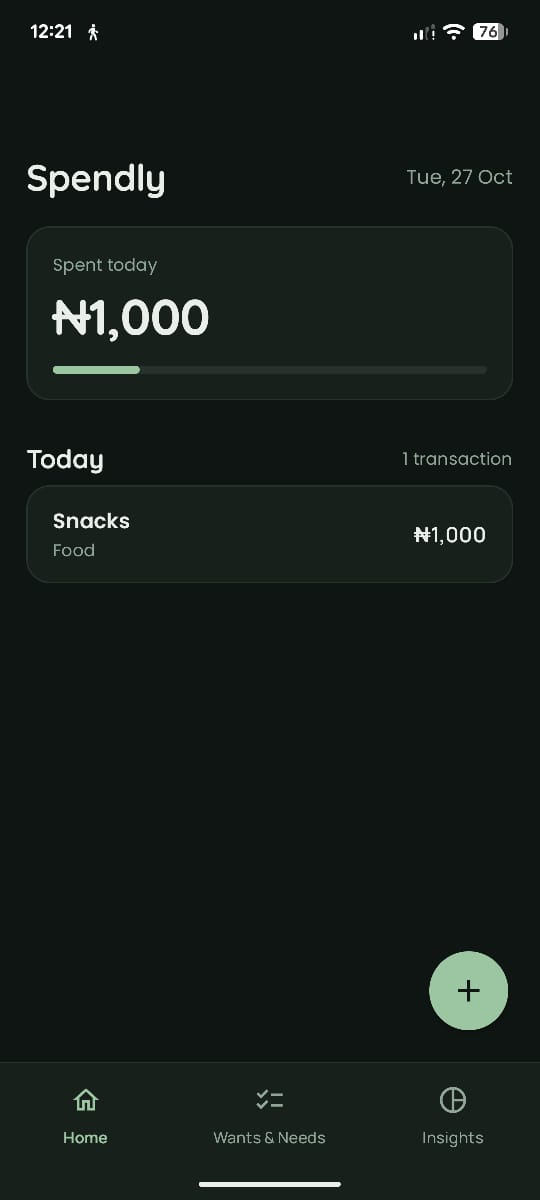
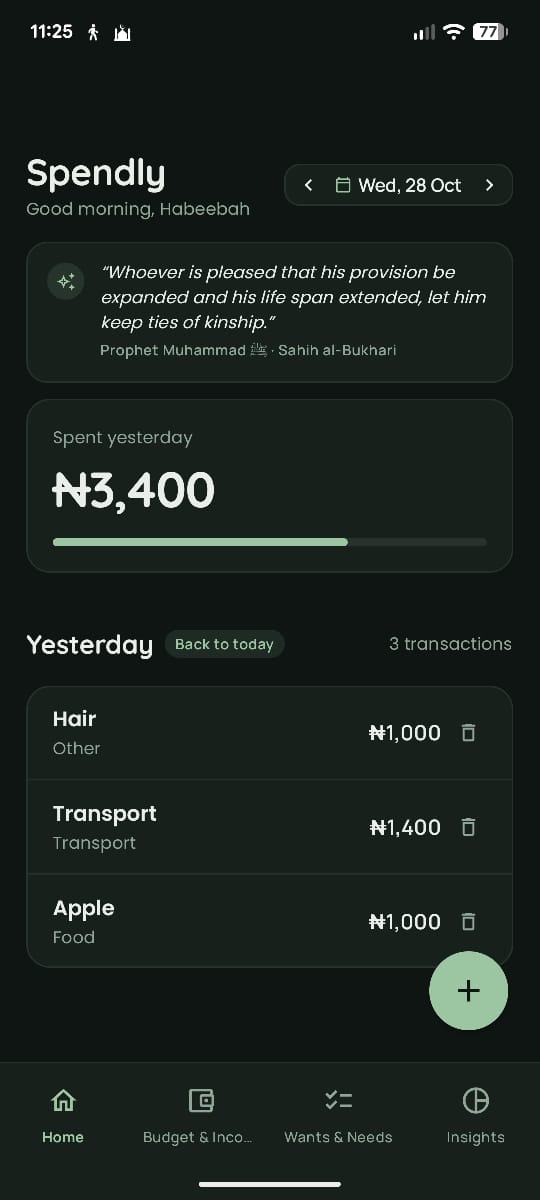
replace readme.md screenshots

diff --git a/README.md b/README.md
@@ -5,11 +5,13 @@
 Spendly is a calm, personal space to track daily spending and plan each month without the clutter of traditional budgeting apps.
 
 <p align="center">
-  <img src="screenshots/home.png" alt="Home Screen" width="260" />
+  <img src="screenshots/home.png" alt="Home Screen" width="200" />
   &nbsp;&nbsp;
-  <img src="screenshots/wants_needs.png" alt="Wants & Needs Screen" width="260" />
+  <img src="screenshots/budget_income.png" alt="Budget & Income Screen" width="200" />
   &nbsp;&nbsp;
-  <img src="screenshots/insights.png" alt="Insights Screen" width="260" />
+  <img src="screenshots/wants_needs.png" alt="Wants & Needs Screen" width="200" />
+  &nbsp;&nbsp;
+  <img src="screenshots/insights.png" alt="Insights Screen" width="200" />
 </p>
 
 ---
